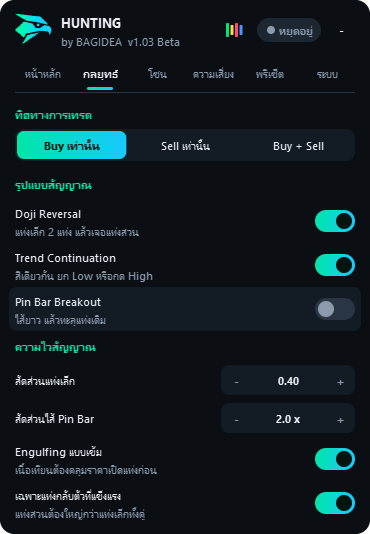
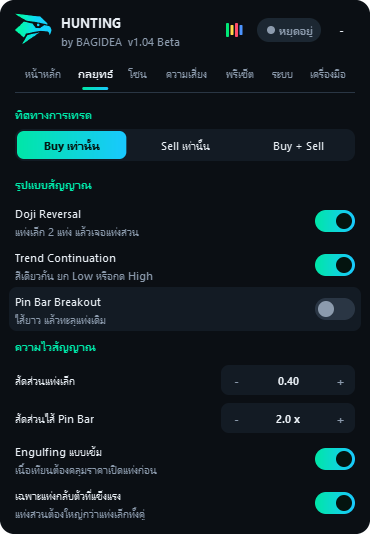
Publish Hunting website v1.04 Beta

Changed region(s): [[0.2081, 0.1199, 0.8027, 0.1498], [0.8324, 0.1199, 0.9514, 0.1498], [0.3865, 0.0599, 0.4162, 0.0899]]

diff --git a/docs.html b/docs.html
@@ -46,6 +46,7 @@
       <li><a href="#risk">หน้าความเสี่ยง</a></li>
       <li><a href="#presets">หน้าพรีเซ็ต</a></li>
       <li><a href="#system">หน้าระบบ</a></li>
+      <li><a href="#tools">หน้าเครื่องมือ</a></li>
       <li><a href="#state">การจำค่าและการรีสตาร์ท</a></li>
       <li><a href="#tester">Strategy Tester</a></li>
       <li><a href="#reference">ตารางค่าทั้งหมด</a></li>
@@ -59,7 +60,7 @@
     <header>
       <p class="eyebrow">เอกสาร</p>
       <h1>คู่มือ Hunting</h1>
-      <p class="lead">ทุกความสามารถของ EA และทุกการตั้งค่า อธิบายตามการทำงานจริงของเวอร์ชัน 1.03 Beta</p>
+      <p class="lead">ทุกความสามารถของ EA และทุกการตั้งค่า อธิบายตามการทำงานจริงของเวอร์ชัน 1.04 Beta</p>
     </header>
 
     <div class="callout warn">
@@ -355,6 +356,26 @@
       <div class="doc-clear"></div>
     </section>
 
+    <section id="tools">
+      <h2>หน้าเครื่องมือ</h2>
+      <p>ทั้ง 3 เครื่องมือใช้ดูข้อมูลเท่านั้น ไม่เปิดหรือปิดไม้ และค่าที่กรอกไม่ถูกบันทึกลงการตั้งค่าหรือพรีเซ็ต</p>
+      <h3>Payoff</h3>
+      <p>แสดงกำไร/ขาดทุนตามราคาปลายทาง เป็นกราฟและตาราง พร้อมราคาคุ้มทุน</p>
+      <ul>
+        <li><strong>จำลองไม้:</strong> เลือก Buy หรือ Sell แล้วกรอก Lot, ราคาเข้า, SL และ TP ราคาเข้า 0 หมายถึงราคาตลาด จะเห็นขาดทุนที่ SL, กำไรที่ TP, Risk : Reward และ SL เทียบพอร์ต</li>
+        <li><strong>ไม้ที่เปิดอยู่:</strong> รวมผลของไม้ทุกไม้ของ EA ตัวนี้ใน Symbol นี้ ไม้ที่เปิดเองหรือมี Magic อื่นจะไม่ถูกนับ</li>
+        <li><strong>เส้นราบในกราฟ:</strong> เมื่อราคาเลย SL หรือ TP ไม้ถูกปิดแล้ว ผลจึงไม่เปลี่ยนต่อ</li>
+        <li><strong>สิ่งที่ไม่ได้รวม:</strong> สเปรด, swap, ค่าคอมมิชชัน และ slippage ผลจริงจึงต่างจากตัวเลขนี้ได้</li>
+        <li><strong>ถ้าไม่ได้ล็อกอิน:</strong> MT5 ไม่มีข้อมูลแปลงเป็นเงิน ตารางจะแสดงเป็น Lot x จุด แทน</li>
+      </ul>
+      <h3>เวลาโลก</h3>
+      <p>แสดงเวลาเครื่องของคุณ เวลาเซิร์ฟเวอร์โบรกเกอร์ และเวลาของสหรัฐฯ แคนาดา อังกฤษ เยอรมนี สวิตเซอร์แลนด์ ญี่ปุ่น จีน ไทย ออสเตรเลีย และนิวซีแลนด์ โดยปรับเวลาออมแสงให้เอง</p>
+      <p>แถบด้านล่างแสดงช่วงตลาดซิดนีย์ โตเกียว ลอนดอน และนิวยอร์ก ตามเวลาเครื่องของคุณ เส้นสีส้มคือเวลาตอนนี้ ป้ายเปิด/ปิดอิงชั่วโมงตลาด FX ทั่วไปในวันจันทร์ถึงศุกร์ และไม่รู้วันหยุดนักขัตฤกษ์</p>
+      <h3>ปฏิทินข่าว</h3>
+      <p>ดึงจากปฏิทินในตัว MT5 เลือกได้ว่าจะดูวันนี้ พรุ่งนี้ หรือ 7 วัน เลือกระดับความสำคัญ และเลือกเฉพาะสกุลเงินของคู่นี้หรือทุกสกุล แต่ละข่าวแสดงเวลาตามเครื่องของคุณ พร้อมค่าจริง ค่าคาด และค่าก่อนหน้า จุดแดงคือความสำคัญสูง จุดส้มคือปานกลาง</p>
+      <p>ปฏิทินนี้ใช้ดูเท่านั้น EA ไม่หยุดเทรดเองเมื่อมีข่าว</p>
+    </section>
+
     <section id="state">
       <h2>การจำค่าและการรีสตาร์ท</h2>
       <div class="table-wrap"><table>
@@ -463,7 +484,7 @@
       <h2>สถานะการทดสอบ</h2>
       <ul>
         <li><strong>ทดสอบแล้ว:</strong> ตรรกะสัญญาณ, สีโซน, กฎการปิดตามโซน, พรีเซ็ต และการใช้งานแผงควบคุม ด้วยชุดทดสอบใน MT5</li>
-        <li><strong>ยังไม่ทดสอบ:</strong> การส่งคำสั่งเปิดและปิดไม้จริง, ขีดจำกัดรายวันกับข้อมูลจริง และการเลือก filling mode กับโบรกเกอร์ต่าง ๆ</li>
+        <li><strong>ยังไม่ทดสอบ:</strong> การส่งคำสั่งเปิดและปิดไม้จริง, ขีดจำกัดรายวันกับข้อมูลจริง, การเลือก filling mode กับโบรกเกอร์ต่าง ๆ, Payoff แบบแสดงเป็นเงินและกับไม้ที่เปิดจริง และเวลาปฏิทินเมื่อต่อกับเซิร์ฟเวอร์โบรกเกอร์</li>
         <li><strong>ยังไม่มีผล backtest:</strong> จึงยังไม่มีข้อมูลว่ากลยุทธ์ทำกำไรหรือขาดทุนเท่าไร</li>
       </ul>
     </section>

diff --git a/index.html b/index.html
@@ -66,6 +66,9 @@
     <article class="card"><h3>ตัวป้องกันความเสี่ยง</h3><p>จำกัดขาดทุนรายวัน จำกัด Spread กำหนดเวลาเทรด และตรวจ Margin กับข้อกำหนดโบรกเกอร์ก่อนส่งออเดอร์</p></article>
     <article class="card"><h3>พรีเซ็ตนำเข้า/ส่งออกได้</h3><p>บันทึกการตั้งค่าเป็น .json เพื่อแชร์ และ .set เพื่อใช้ใน Strategy Tester ไฟล์ใช้ร่วมกันได้ทุก Terminal ในเครื่อง</p></article>
     <article class="card"><h3>เริ่มต้นแบบปลอดภัย</h3><p>แนบ EA แล้วจะยังไม่เปิดไม้จนกว่าจะกด "เริ่มล่า" และรอแท่งเทียนปิดก่อนเสมอ ไม่เข้าไม้จากสัญญาณเก่า</p></article>
+    <article class="card"><h3>ตาราง Payoff</h3><p>ดูกำไร/ขาดทุนตามราคาปลายทางเป็นกราฟและตาราง ทั้งไม้จำลองและไม้ที่ EA เปิดอยู่ พร้อม Risk : Reward และราคาคุ้มทุน</p></article>
+    <article class="card"><h3>เวลาโลก</h3><p>เวลา 10 ประเทศหลักพร้อมปรับเวลาออมแสงให้เอง และแถบช่วงตลาดซิดนีย์ โตเกียว ลอนดอน นิวยอร์ก ตามเวลาเครื่องคุณ</p></article>
+    <article class="card"><h3>ปฏิทินข่าว</h3><p>ดูข่าวเศรษฐกิจจากปฏิทินในตัว MT5 กรองตามวัน ความสำคัญ และสกุลเงิน พร้อมค่าจริง ค่าคาด และค่าก่อนหน้า</p></article>
   </div>
 </section>
 
